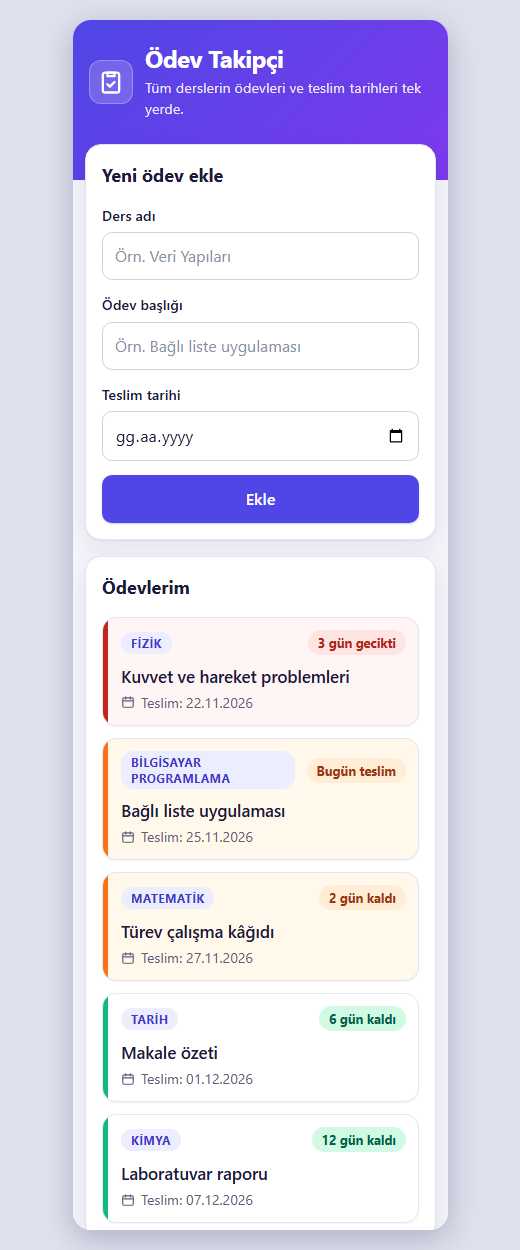
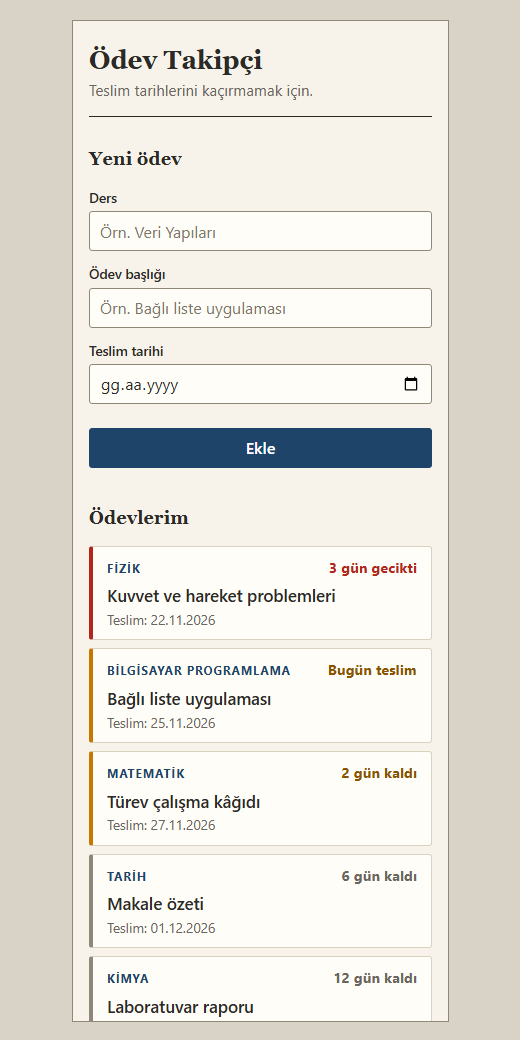
README ve ekran görüntüleri ajanda temasına göre güncellendi

diff --git a/README.md b/README.md
@@ -47,19 +47,19 @@ Ders adı, ödev başlığı ve teslim tarihi girilerek ödev eklenir. Ödevler 
 1. Bugüne göre şu ödevleri karışık sırayla ekleyin: 5 gün önce, 1 gün önce, bugün, yarın, 3 gün sonra, 4 gün sonra, 10 gün sonra.
 2. Liste eklediğiniz sıraya bakılmadan en eski tarihten en yeniye dizilmeli.
 3. Yazılar sırasıyla "5 gün gecikti", "1 gün gecikti", "Bugün teslim", "1 gün kaldı", "3 gün kaldı", "4 gün kaldı", "10 gün kaldı" olmalı.
-4. İlk iki ödev kırmızı, bugün/yarın/3 gün sonrası turuncu, kalanlar (4 gün ve sonrası) yeşil görünmeli.
+4. İlk iki ödevin sol çizgisi ve kalan süre yazısı kırmızı, bugün/yarın/3 gün sonrası hardal (turuncu), 4 gün ve sonrası gri olmalı.
 5. 2 gün sonrası için yeni bir ödev ekleyin. Liste yeniden sıralanır, ödev doğru yere girer.
 
 ### 3. Arayüz
 
-Sayfanın üstünde uygulama adı ve alt başlığı olan bir başlık alanı bulunur. Ödevler kart olarak listelenir: ders adı küçük bir etiket, kalan gün bilgisi renkli bir rozet olarak görünür. Ödev yokken boş durum mesajı gösterilir. Tasarım masaüstünde ve telefon genişliğinde (375px) çalışır.
+Arayüz krem renkli bir kâğıt ajandayı andırır: serif başlık, tek vurgu rengi (mürekkep mavisi), en fazla 4px köşe yuvarlaklığı; degrade ve gölge yok. Her ödev ince kenarlıklı bir satırdır. Ders adı küçük harflerle üstte, kalan gün sağda düz yazı olarak görünür. Durum sol kenardaki çizgiyle de anlaşılır: geciken kırmızı, 3 gün ve altı turuncu, daha fazlası gri. Ödev yokken kısa bir boş durum yazısı çıkar. Düzen masaüstünde ve telefon genişliğinde (375px) çalışır.
 
 | Masaüstü | Mobil (375px) |
 |---|---|
 | ![Masaüstü görünümü](docs/ekran-masaustu.png) | ![Mobil görünümü](docs/ekran-mobil.png) |
 
-1. Siteyi ilk kez açın ya da tarayıcı konsolunda `localStorage.clear()` çalıştırıp sayfayı yenileyin. "Henüz ödev eklenmedi" mesajı görünmeli.
-2. Birkaç ödev ekleyin. Her ödev bir kart olarak listelenmeli; ders adı etiket, kalan gün renkli rozet olmalı.
-3. Tarayıcı penceresini daraltın (ya da geliştirici araçlarında 375px genişliği seçin). Kartlar ve form taşmadan tek sütunda dizilmeli.
+1. Siteyi ilk kez açın ya da tarayıcı konsolunda `localStorage.clear()` çalıştırıp sayfayı yenileyin. "Henüz ödev yok. Yukarıdan ilkini ekle." yazısı italik ve gri olarak görünmeli.
+2. Birkaç ödev ekleyin. Her ödev ince kenarlıklı bir satır olmalı: ders adı üstte küçük harflerle, kalan gün sağda düz yazıyla, durum rengi sol çizgide.
+3. Tarayıcı penceresini daraltın (ya da geliştirici araçlarında 375px genişliği seçin). Form alanları alt alta dizilmeli, hiçbir şey taşmamalı.
 
 Sıradaki özellikler (tamamlama, silme, filtreleme) için panoya bakabilirsiniz.
